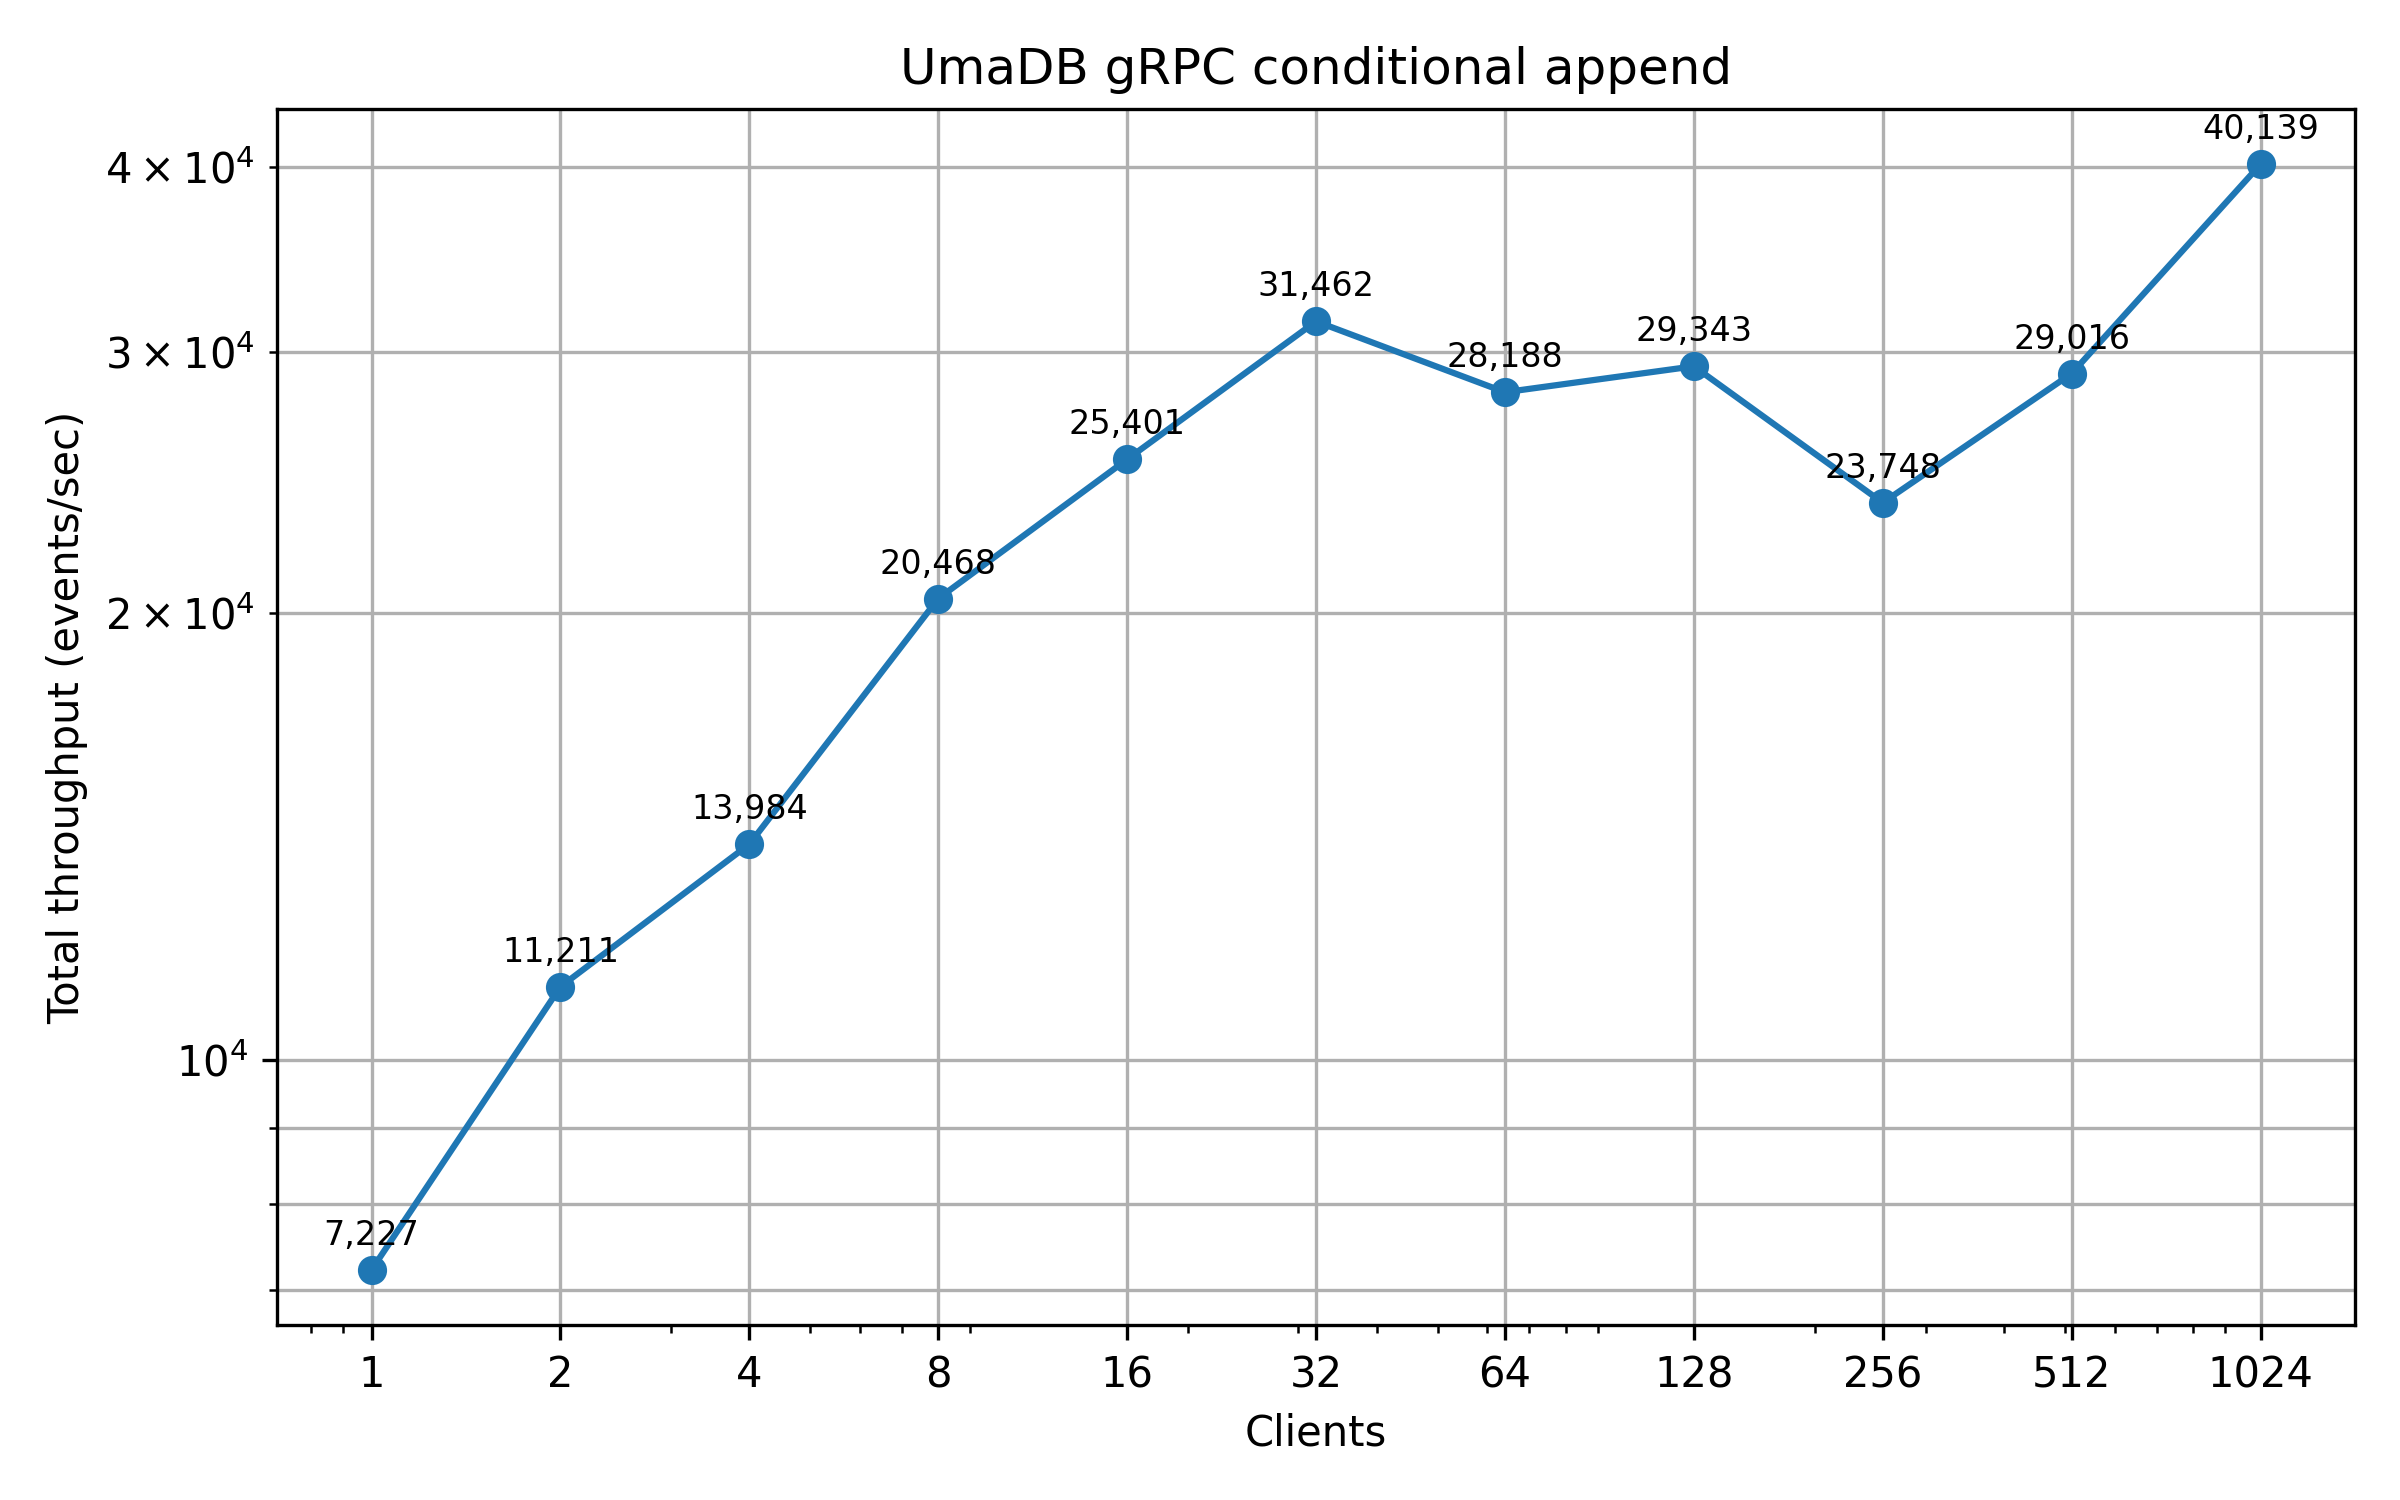
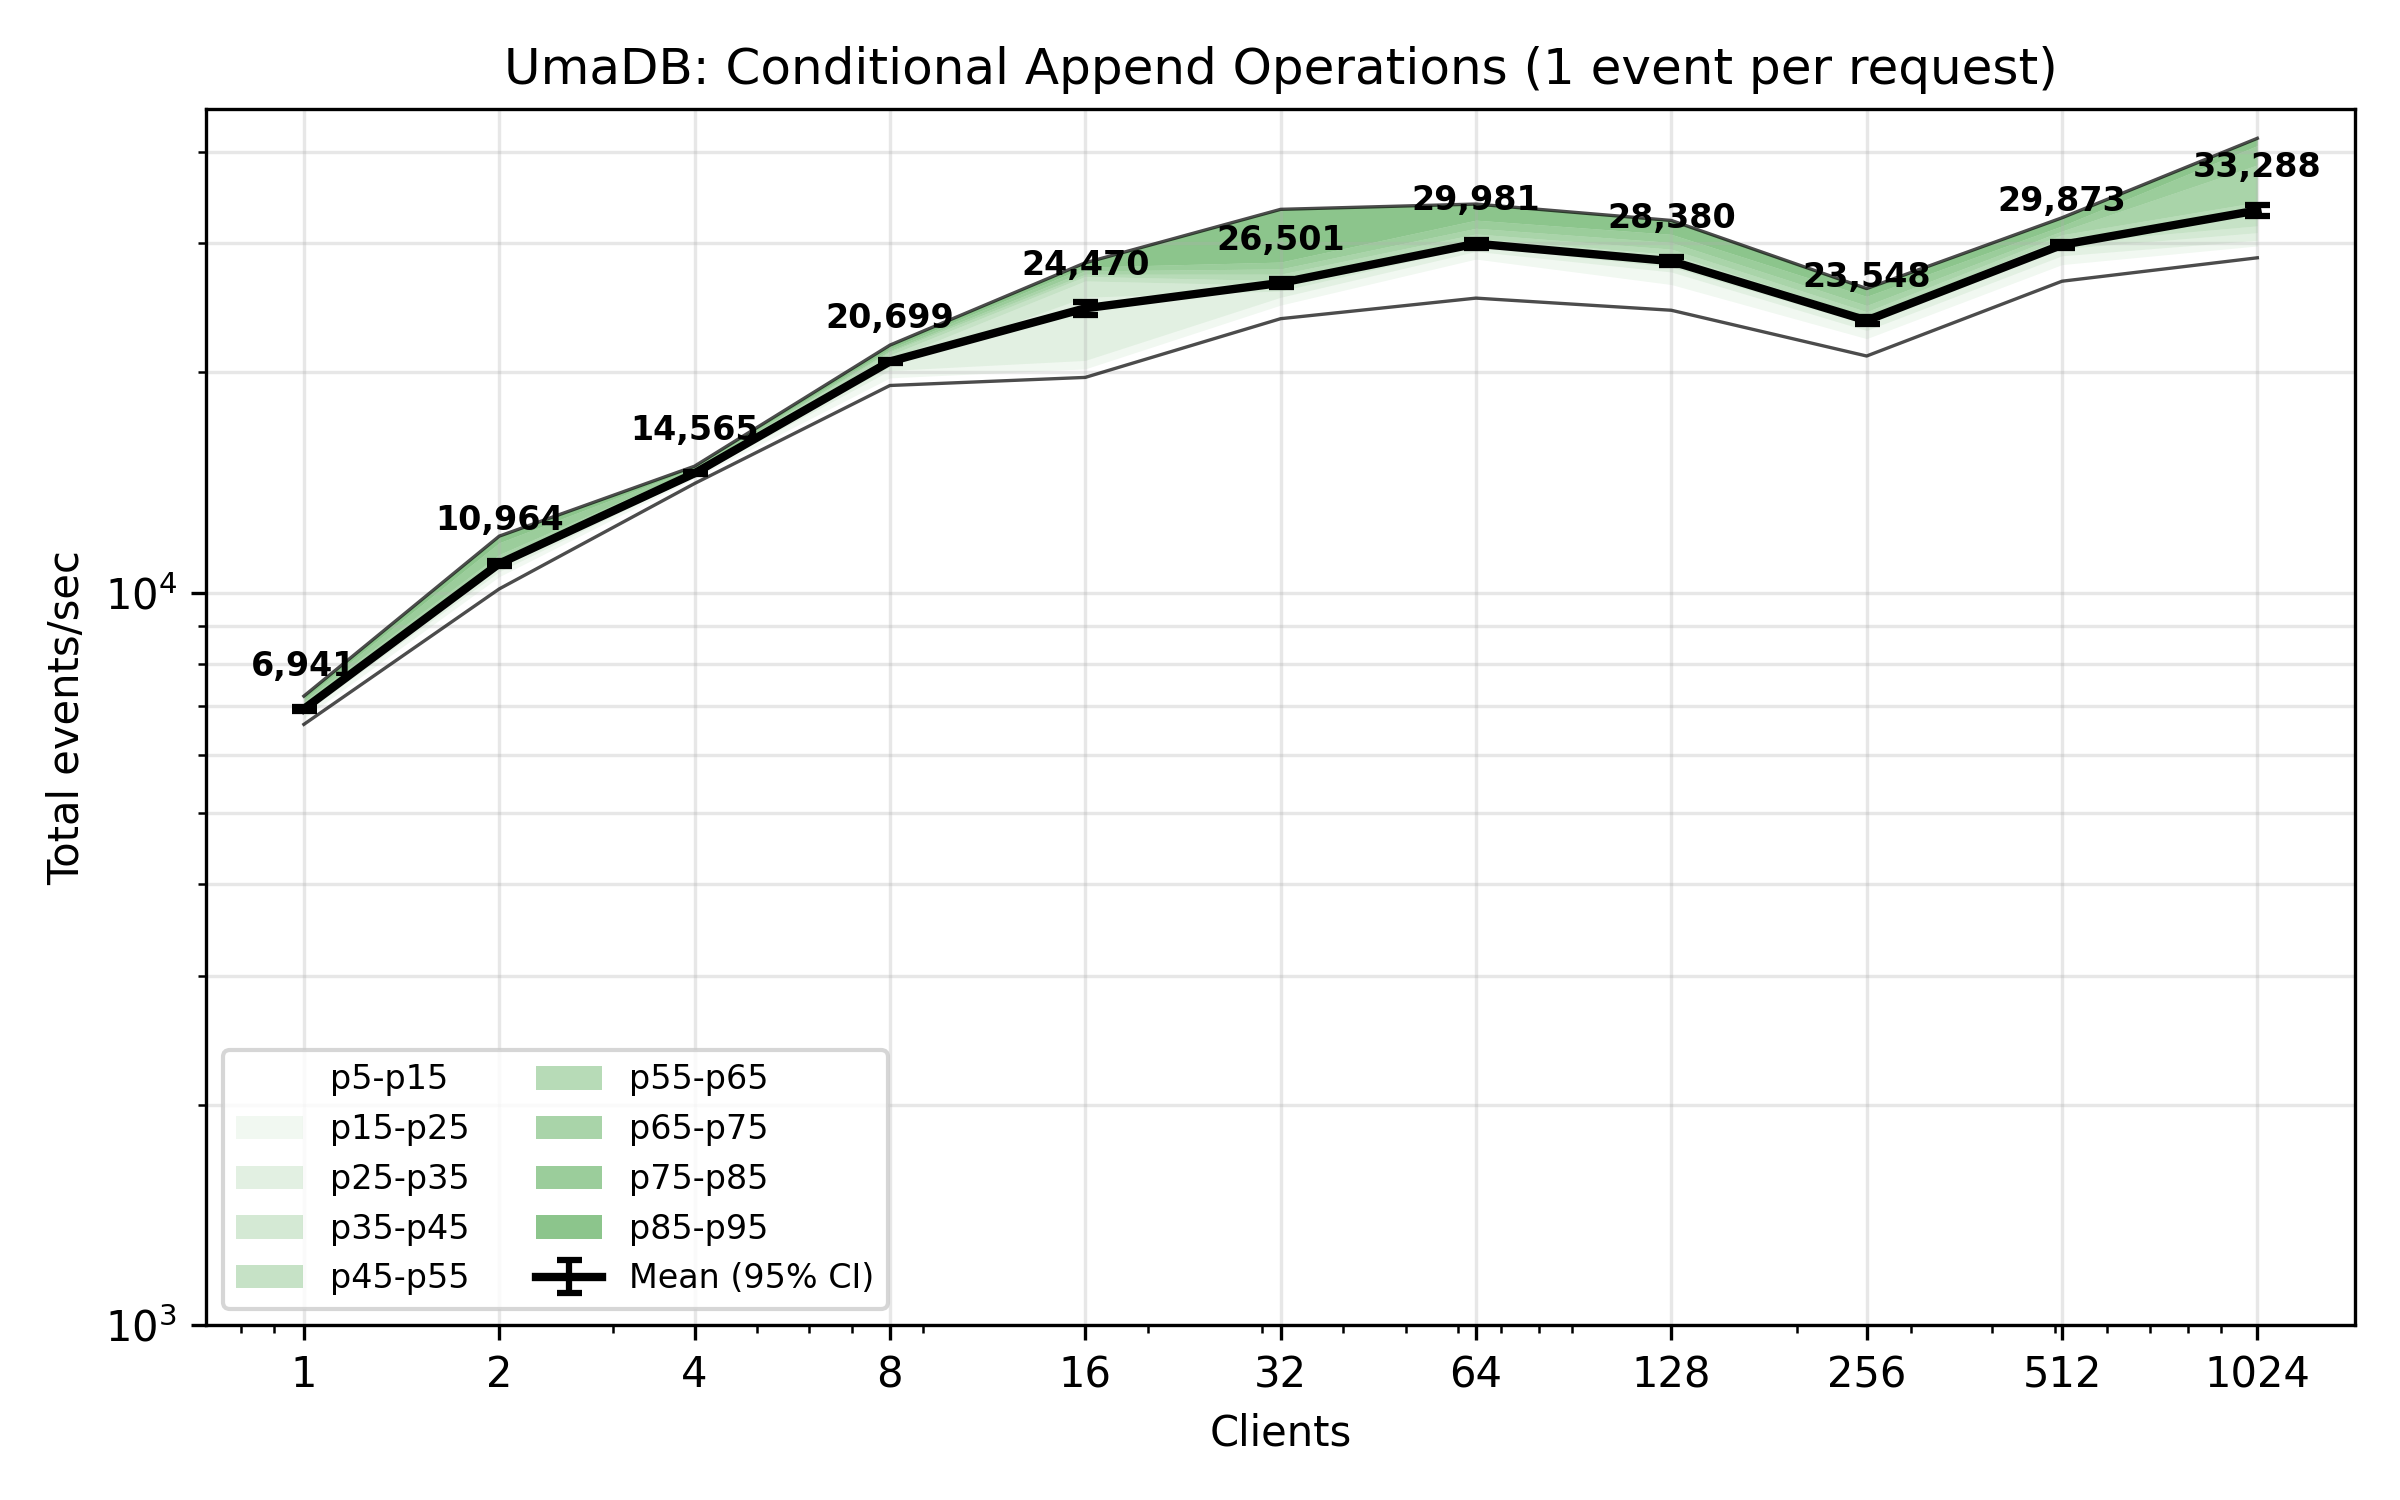
Adjusted plotting for append whilst reading.

diff --git a/crates/benches/benches/grpc_append_with_readers_bench_plot.py b/crates/benches/benches/grpc_append_with_readers_bench_plot.py
@@ -1,4 +1,5 @@
-import pandas as pd
+import json
+import numpy as np
 import matplotlib.pyplot as plt
 from pathlib import Path
 
@@ -10,38 +11,139 @@ READER_COUNT = 4     # number of background readers running during the append be
 threads = [1, 2, 4, 8, 16, 32, 64, 128, 256, 512, 1024]
 
 x = []
-throughputs = []  # events per second (total across threads)
+mean_throughputs = []
+ci_lower_throughputs = []
+ci_upper_throughputs = []
+# Store percentile throughputs for bands from p5 to p95
+# percentile_throughputs[i] contains list of throughputs for (5+i*10) percentile
+percentile_throughputs = [[] for _ in range(10)]  # 5, 15, 25, ..., 85, 95
 
 for t in threads:
+    sample_path = Path(f"target/criterion/grpc_append_4readers/{t}/new/sample.json")
     est_path = Path(f"target/criterion/grpc_append_4readers/{t}/new/estimates.json")
-    if not est_path.exists():
+    if not sample_path.exists() or not est_path.exists():
         # Skip missing variants gracefully
         continue
-    est = pd.read_json(est_path)
-    mean_ns = est.loc['point_estimate', 'mean']
+    
+    with open(sample_path, 'r') as f:
+        sample_data = json.load(f)
+    
+    with open(est_path, 'r') as f:
+        est_data = json.load(f)
+    
+    # Extract times and iteration counts
+    times = np.array(sample_data['times'])
+    iters = np.array(sample_data['iters'])
+    
+    # Calculate per-iteration times (nanoseconds per iteration)
+    per_iter_times = times / iters
+    
+    # Calculate percentiles for bands from p5 to p95 (5, 15, 25, ..., 85, 95)
+    percentiles = [np.percentile(per_iter_times, p) for p in range(5, 96, 10)]
+    
+    # Get mean from estimates
+    mean_ns = est_data['mean']['point_estimate']
     mean_sec = mean_ns / 1e9
-
-    events_total = EVENTS_PER_ITER * t  # total across all writer threads for this variant
-    eps = events_total / mean_sec  # events per second
-
+    
+    # Get confidence interval bounds for mean
+    ci_lower_ns = est_data['mean']['confidence_interval']['lower_bound']
+    ci_upper_ns = est_data['mean']['confidence_interval']['upper_bound']
+    ci_lower_sec = ci_lower_ns / 1e9
+    ci_upper_sec = ci_upper_ns / 1e9
+    
+    events_total = EVENTS_PER_ITER * t  # total across all threads for this variant
+    
+    # Calculate mean throughput
+    mean_eps = events_total / mean_sec
+    
+    # Calculate CI throughputs (note: inverse relationship with time)
+    # Lower time bound = upper throughput bound, upper time bound = lower throughput bound
+    ci_lower_eps = events_total / ci_upper_sec
+    ci_upper_eps = events_total / ci_lower_sec
+    
+    # Calculate throughput for each percentile (note: inverse relationship with time)
+    # Lower time = higher throughput, so we reverse the percentiles
+    percentile_eps = [events_total / (p_ns / 1e9) for p_ns in reversed(percentiles)]
+    
     x.append(t)
-    throughputs.append(eps)
+    mean_throughputs.append(mean_eps)
+    ci_lower_throughputs.append(ci_lower_eps)
+    ci_upper_throughputs.append(ci_upper_eps)
+    for i, eps in enumerate(percentile_eps):
+        percentile_throughputs[i].append(eps)
+
+# Check if any data was found
+if len(x) == 0:
+    print(f"Error: No benchmark data found for grpc_append_with_readers_bench")
+    print(f"Expected to find data in: target/criterion/grpc_append_4readers/*/new/")
+    print(f"Please run the benchmark first: make bench-append-with-readers")
+    exit(1)
 
 plt.figure(figsize=(8, 5))
-plt.plot(x, throughputs, marker='o')
+
+# Plot percentile bands from p5 to p95 with progressive shading
+# Band 0: p5-p15 (lightest)
+# Band 1: p15-p25
+# ...
+# Band 7: p75-p85
+# Band 8: p85-p95 (darkest)
+# We want top bands darker, so band 8 (85-95) should be darkest
+
+# Use a color map to create progressive shading from light to dark
+base_color = 'green'
+num_bands = 9
+
+for i in range(num_bands):
+    # Calculate alpha: lightest at bottom (i=0), darkest at top (i=8)
+    # Use range from 0.15 to 0.6 for good visibility
+    alpha = 0.0 + (i / (num_bands - 1)) * 0.45
+    
+    lower = percentile_throughputs[i]
+    upper = percentile_throughputs[i + 1]
+    
+    # Calculate percentile values for labels: 5, 15, 25, ..., 85, 95
+    p_lower = 5 + i * 10
+    p_upper = 5 + (i + 1) * 10
+    
+    label = f'p{p_lower}-p{p_upper}'
+
+    plt.fill_between(x, lower, upper, alpha=alpha, color=base_color, label=label, linewidth=0)
+
+# Add thin black lines at p5 and p95 boundaries
+plt.plot(x, percentile_throughputs[0], linestyle='-', linewidth=0.8, color='black', alpha=0.7, zorder=5)
+plt.plot(x, percentile_throughputs[9], linestyle='-', linewidth=0.8, color='black', alpha=0.7, zorder=5)
+
+# Calculate error bar values (asymmetric errors)
+yerr_lower = [mean - lower for mean, lower in zip(mean_throughputs, ci_lower_throughputs)]
+yerr_upper = [upper - mean for mean, upper in zip(mean_throughputs, ci_upper_throughputs)]
+
+# Plot mean throughput with round markers in black and confidence intervals
+plt.errorbar(x, mean_throughputs, yerr=[yerr_lower, yerr_upper], 
+             marker='', linestyle='-', linewidth=2, markersize=4,
+             label='Mean (95% CI)', color='black', capsize=3, capthick=1.5, 
+             elinewidth=1.5, zorder=10)
+
+# Add numerical annotations for mean values
+for t, eps in zip(x, mean_throughputs):
+    plt.annotate(f"{eps:,.0f}", (t, eps), textcoords="offset points", 
+                xytext=(0, 8), ha='center', fontsize=8, fontweight='bold')
+
 plt.xscale('log')
 plt.yscale('log')
 plt.xlabel('Writer clients')
-plt.ylabel('Total ops/sec')
-plt.title(f'UmaDB Append with {READER_COUNT} Concurrent Readers')
+plt.ylabel('Total events/sec')
+plt.title(f'UmaDB: Append with {READER_COUNT} Concurrent Readers')
 # Show y-axis grid lines and x-axis grid lines only at major ticks (the labeled x ticks)
-plt.grid(True, which='both', axis='y')
-plt.grid(True, which='major', axis='x')
+plt.grid(True, which='both', axis='y', alpha=0.3)
+plt.grid(True, which='major', axis='x', alpha=0.3)
 plt.xticks(x, [str(t) for t in x])
+plt.legend(loc='best', fontsize=8, ncol=2)
 
-# Optional: annotate points
-for t, eps in zip(x, throughputs):
-    plt.annotate(f"{eps:,.0f}", (t, eps), textcoords="offset points", xytext=(0, 6), ha='center', fontsize=8)
+# Set y-axis minimum to the lowest plotted value rounded down to the next power of 10
+min_value = min(percentile_throughputs[0])  # p5 percentile has the lowest values
+# Round down to the next power of 10: 10^floor(log10(min_value))
+y_min = 10 ** np.floor(np.log10(min_value))
+plt.ylim(bottom=y_min)
 
 plt.tight_layout()
 plt.savefig(f"UmaDB-append-with-readers-bench.png", format="png", dpi=300)

diff --git a/README.md b/README.md
@@ -359,6 +359,8 @@ is writing 100 events per request (no append condition).
 
 ![UmaDB benchmark](UmaDB-append-bench-100-per-request.png)
 
+### Append with Concurrent Reader
+
 The benchmark plot below shows total appended events per second from concurrent clients, whilst
 there are four other clients concurrently reading events. Each client is writing 1 event per request (no append condition).
 This plot shows writing is not drastically impeded by concurrent readers.
